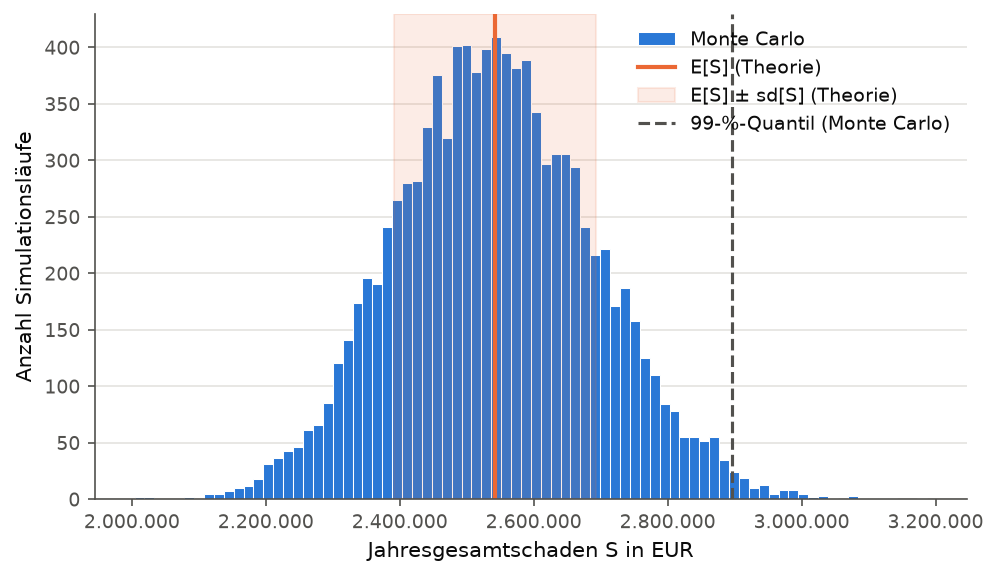
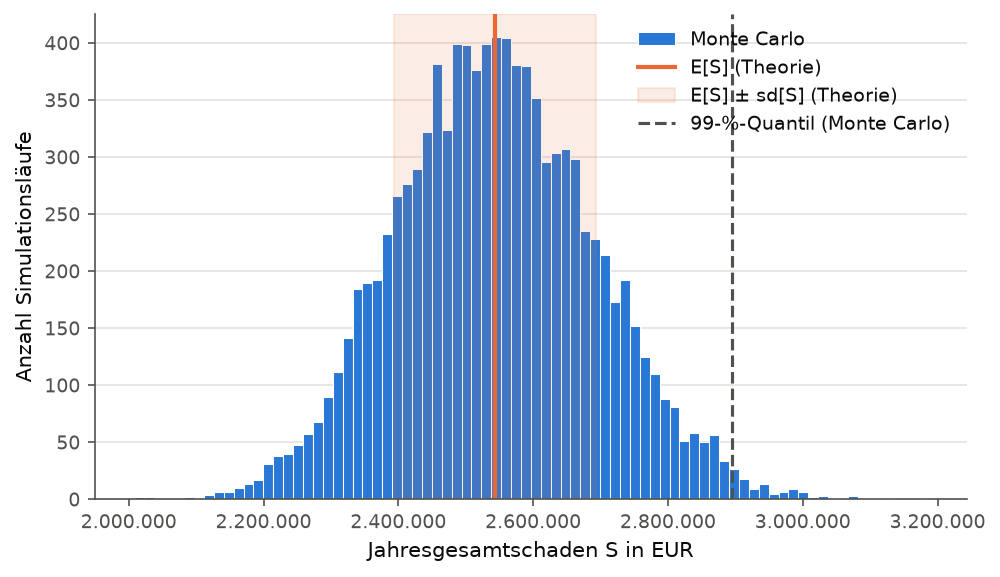
collective: Schwere per geschlossenem ML-Schätzer, Docstrings präzisiert
lognorm.fit ohne floc=0 schätzte eine Verschiebung loc ≈ 10 EUR mit und
verwarf sie. Jetzt μ̂, σ̂ als Mittel und Standardabweichung (ddof=0) der
logarithmierten Schäden. Docstrings: Frequenz je Exposure-Jahr statt λ,
Varianzformel als Blackwell-Girshick. Figur, results.json und README-Zahlen
aus nonlife run --seed 42.

diff --git a/src/nonlife/collective.py b/src/nonlife/collective.py
@@ -13,16 +13,17 @@ from __future__ import annotations
 
 import numpy as np
 import pandas as pd
-from scipy import stats
 
 
 def estimate_frequency_parameter(claims: pd.DataFrame, policies: pd.DataFrame) -> float:
-    """Schaetzt den Poisson-Parameter λ der Schadenfrequenz.
+    """Schaetzt die Schadenfrequenz je Exposure-Jahr.
 
     Die Frequenz wird definiert als:
-        λ = (Anzahl Schaeden) / (Summe Exposure)
+        (Anzahl Schaeden) / (Summe Exposure)
 
-    Dies ist die beobachtete durchschnittliche Schadenzahl pro Einheit Exposure.
+    Das ist der ML-Schaetzer der Poisson-Rate je Exposure-Jahr, nicht das λ
+    des Jahresgesamtschadens. Dieses entsteht erst durch Multiplikation mit
+    der Exposure eines Jahres (siehe ``cli._run_collective``).
 
     Parameters
     ----------
@@ -34,7 +35,7 @@ def estimate_frequency_parameter(claims: pd.DataFrame, policies: pd.DataFrame) -
     Returns
     -------
     float
-        Geschaetzter λ-Parameter
+        Geschaetzte Frequenz je Exposure-Jahr
     """
     return float(len(claims) / policies["exposure"].sum())
 
@@ -43,24 +44,27 @@ def estimate_frequency_parameter(claims: pd.DataFrame, policies: pd.DataFrame) -
 def estimate_severity_parameters(claims: pd.DataFrame) -> tuple[float, float]:
     """Schaetzt die Parameter einer Lognormal-Verteilung fuer die Schadenhoehe.
 
-    Die Funktion passt eine Lognormal-Verteilung an die beobachteten
-    claim_amounts an und gibt die Parameter μ und σ zurueck.
+    Mit X ~ Lognormal(μ, σ) ist ln X ~ N(μ, σ²). Die ML-Schaetzer sind daher
+    Mittelwert und Standardabweichung der logarithmierten Schadenhoehen, die
+    Standardabweichung mit Divisor n (ddof=0), wie beim ML-Schaetzer der
+    Normalverteilung.
+
+    Bewusst nicht ``scipy.stats.lognorm.fit``: ohne ``floc=0`` schaetzt es
+    zusaetzlich eine Verschiebung loc, also ln(X - loc) ~ N(μ, σ²); μ und σ
+    gehoeren dann zu einer anderen Verteilung als der simulierten.
 
     Parameters
     ----------
     claims : pd.DataFrame
-        DataFrame mit Spalte "claim_amount"
+        DataFrame mit Spalte "claim_amount", alle Werte > 0
 
     Returns
     -------
     (mu, sigma) : tuple[float, float]
-        Geschaetzte Parameter der Lognormal-Verteilung.
-        Hinweis: scipy.stats.lognorm.fit() gibt (s, loc, scale) zurueck,
-        wobei s=σ und scale=e^μ.
+        ML-Schaetzer der Parameter von ln X ~ N(μ, σ²).
     """
-    sigma, _loc, scale = stats.lognorm.fit(claims["claim_amount"])
-    mu =  np.log(scale)
-    return mu, sigma
+    log_x = np.log(claims["claim_amount"].to_numpy())
+    return float(log_x.mean()), float(log_x.std(ddof=0))
 
 
 def monte_carlo_simulation(
@@ -133,12 +137,11 @@ def theoretical_statistics(
     severity_mean: float,
     severity_variance: float,
 ) -> dict[str, float]:
-    """Berechnet die theoretischen Statistiken nach der Wald'schen Identitaet.
+    """Berechnet Erwartungswert und Varianz von S im kollektiven Modell.
 
-    Wald'sche Identitaet:
-      - E[S] = E[N] * E[X] = λ * E[X]
-      - Var[S] = E[N] * Var[X] + Var[N] * (E[X])^2
-             = λ * Var[X] + λ * (E[X])^2
+      - E[S] = E[N] * E[X] = λ * E[X]                        (Wald'sche Identitaet)
+      - Var[S] = E[N] * Var[X] + Var[N] * (E[X])^2           (Blackwell-Girshick)
+             = λ * Var[X] + λ * (E[X])^2                     (Poisson: Var[N] = λ)
 
     Parameters
     ----------

diff --git a/tests/test_collective.py b/tests/test_collective.py
@@ -53,6 +53,14 @@ def test_severity_fit_recovers_lognormal_parameters(rng: np.random.Generator) ->
     assert sigma == pytest.approx(SIGMA, abs=0.02)
 
 
+def test_severity_fit_is_closed_form_mle() -> None:
+    # ln x = (0, 1, 2, 3): Mittel 1,5, Varianz mit Divisor n = 1,25.
+    amounts = np.exp([0.0, 1.0, 2.0, 3.0])
+    mu, sigma = estimate_severity_parameters(pd.DataFrame({"claim_amount": amounts}))
+    assert mu == pytest.approx(1.5, rel=1e-12)
+    assert sigma == pytest.approx(np.sqrt(1.25), rel=1e-12)
+
+
 # --- Monte Carlo -------------------------------------------------------------
 
 

diff --git a/README.md b/README.md
@@ -14,11 +14,11 @@ Die Monte-Carlo-Verteilung der Jahresschadenlast trifft den theoretischen Erwart
 
 | | Simulation | Theorie |
 |---|---:|---:|
-| $E[S]$ | 2.542.947 | 2.542.015 |
-| $\mathrm{sd}[S]$ | 148.245 | 151.007 |
-| 99-%-Quantil | 2.895.916 | – |
+| $E[S]$ | 2.544.424 | 2.543.494 |
+| $\mathrm{sd}[S]$ | 147.344 | 150.101 |
+| 99-%-Quantil | 2.895.558 | – |
 
-Parameter: $\hat\lambda = 719{,}2$ Schäden je Jahr, Schwere Lognormal mit $\hat\mu = 7{,}7046$, $\hat\sigma = 0{,}9651$.
+Parameter: $\hat\lambda = 719{,}2$ Schäden je Jahr, Schwere Lognormal mit $\hat\mu = 7{,}7118$, $\hat\sigma = 0{,}9582$.
 
 ### Reserve: Chain-Ladder gegen wahre Reserve
 
@@ -48,7 +48,7 @@ Jahresgesamtschaden $S = X_1 + \dots + X_N$ mit $N \sim \text{Poisson}(\lambda)$
 
 $$E[S] = E[N]\,E[X], \qquad \mathrm{Var}[S] = E[N]\mathrm{Var}[X] + \mathrm{Var}[N]\,E[X]^2 = \lambda\,E[X^2].$$
 
-Das Portfolio ist heterogen: Police $i$ hat die Schadenanzahl $N_i \sim \text{Poisson}(\lambda_i)$ mit $\lambda_i = \lambda(x_i)\,e_i$. Die Summe unabhängiger zusammengesetzter Poisson-Variablen ist wieder zusammengesetzt Poisson mit $\lambda = \sum_i \lambda_i$ und der Mischung $\sum_i (\lambda_i/\lambda)\,F_i$ der Schwereverteilungen. Daher darf das Portfolio als ein kollektives Modell behandelt werden. Geschätzt wird $\hat\lambda$ als Schadenfrequenz je Exposure-Jahr mal mittlere Exposure eines Anfalljahres, $(\hat\mu, \hat\sigma)$ per Maximum-Likelihood aus allen Einzelschäden.
+Das Portfolio ist heterogen: Police $i$ hat die Schadenanzahl $N_i \sim \text{Poisson}(\lambda_i)$ mit $\lambda_i = \lambda(x_i)\,e_i$. Die Summe unabhängiger zusammengesetzter Poisson-Variablen ist wieder zusammengesetzt Poisson mit $\lambda = \sum_i \lambda_i$ und der Mischung $\sum_i (\lambda_i/\lambda)\,F_i$ der Schwereverteilungen. Daher darf das Portfolio als ein kollektives Modell behandelt werden. Geschätzt wird $\hat\lambda$ als Schadenfrequenz je Exposure-Jahr mal mittlere Exposure eines Anfalljahres, $(\hat\mu, \hat\sigma)$ per Maximum-Likelihood aus allen Einzelschäden, also Mittelwert und Standardabweichung (Divisor $n$) der logarithmierten Schadenhöhen.
 
 Die Monte-Carlo-Simulation ist vektorisiert: alle Schadenanzahlen in einem Aufruf, danach alle Schadenhöhen in einem Block, Summe je Lauf mit `np.bincount`. Zufall kommt ausschließlich aus einem übergebenen `numpy.random.Generator`.
 
